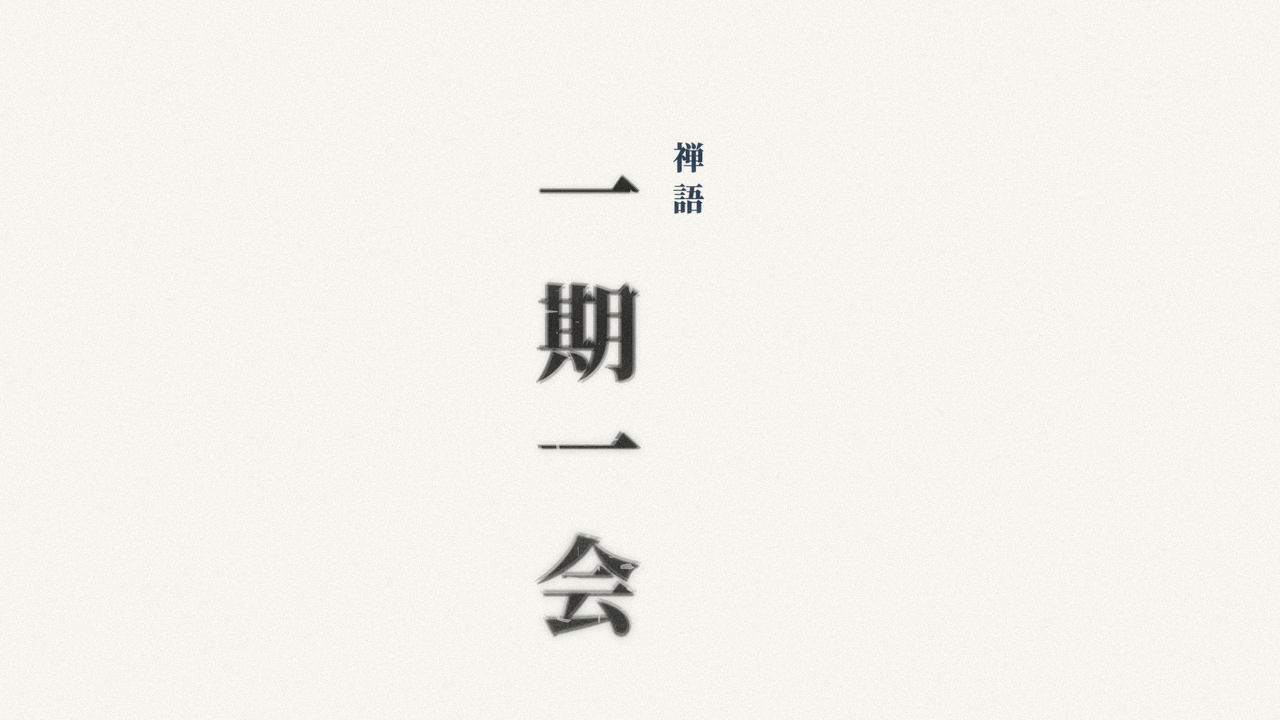
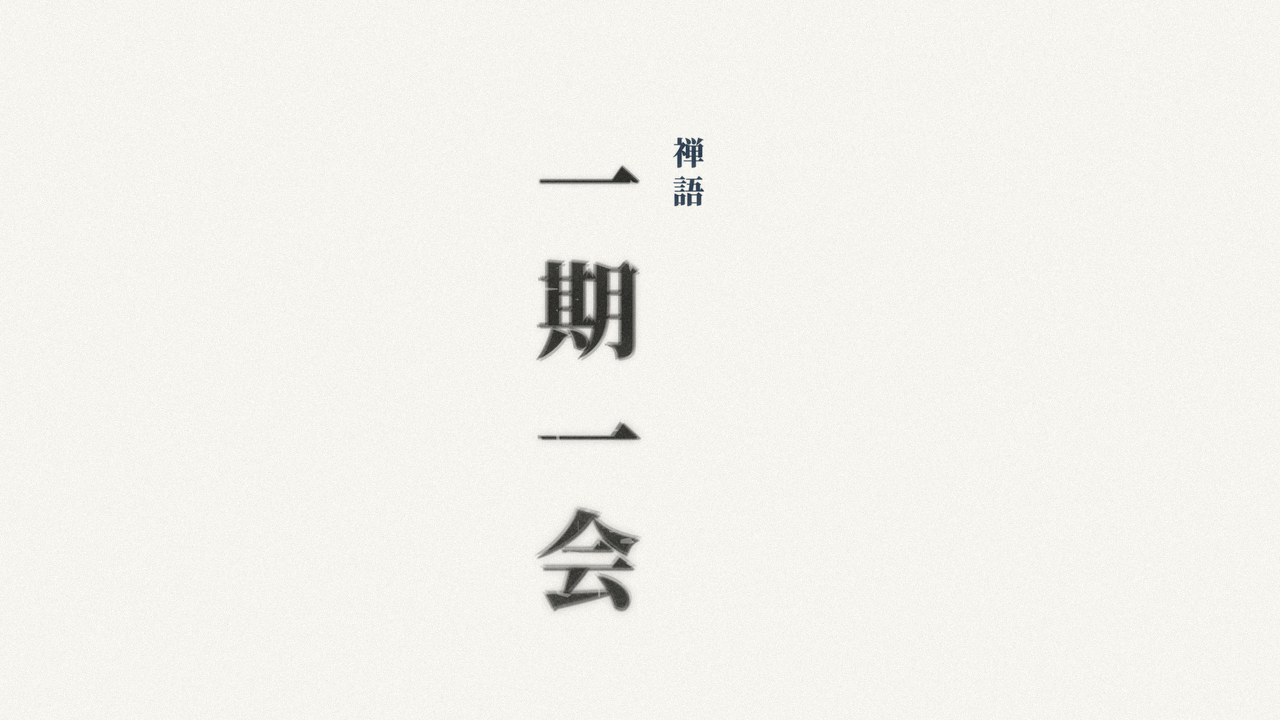
カバー生成: 縦書きの字間ずれを修正(インク重心ベースの位置合わせ)
オーナー指摘: fusaku.png で「一日不作一日不食」の2つ目の「一」の
前後で字間が不揃いになり、列が途中で改行したように見えていた。

原因: paste_vertical_column が各字のcanvas位置(幾何学的な等間隔)だけで
縦位置を決めていたため、「一」のような画数の少ない字はインクの塊が
canvas内で他の字と同じようには分布せず、掠れ効果(乾筆・大粒の抜け)や
太細のグラデーションと組み合わさることで、字間が視覚的に不揃いになる
ことがあった。

修正: jittered_glyph が各字のインクの縦方向の重心(行)を計算して返すように
し、paste_vertical_column はcanvas位置ではなくこの重心を基準に等間隔で
配置するよう変更。加えて、掠れ効果が重なって淡い字がほぼ消えないよう
下限(元の濃さの45%)を設定。

全禅語シリーズ・仏教語シリーズのカバーを再生成し、他の記事で見た目の
劣化がないことを確認済み(byojoshin/ichigoichie/ichigu 等で目視確認)。

diff --git a/tools/build_covers.py b/tools/build_covers.py
@@ -74,6 +74,7 @@ def jittered_glyph(ch, size, seed, wear=0.0):
 
     # --- かすれ(dry-brush): ノイズで一部を欠けさせる。wearが高いほど激しく ---
     from scipy.ndimage import gaussian_filter as _gf
+    pre_erosion = tapered  # 「一」等、画数の少ない字が複数の掠れ効果の重なりでほぼ消えるのを防ぐ下限に使う
     rng_np = np.random.RandomState(seed)
     speckle = rng_np.rand(canvas, canvas)
     hole_prob = 0.05 + 0.14 * wear
@@ -90,6 +91,10 @@ def jittered_glyph(ch, size, seed, wear=0.0):
     coarse_gate = np.where(coarse_mask < 0.10 + 0.10 * wear, 0.35, 1.0)
     tapered = tapered * coarse_gate
 
+    # 掠れ効果の下限: 「一」のような画数の少ない字が、乾筆+大粒掠れの重なりでほぼ消滅しないよう
+    # 元の濃さの一定割合は必ず残す(文字が縦書きの列の途中で消えて改行したように見える不具合を防ぐ)
+    tapered = np.maximum(tapered, pre_erosion * 0.45)
+
     ink_alpha = np.clip(tapered, 0, 1)
 
     # --- にじみ(ink bleed): ぼかした低アルファ層を下敷きにする ---
@@ -104,17 +109,34 @@ def jittered_glyph(ch, size, seed, wear=0.0):
     rgba[..., 2] = INK_COLOR[2]
     rgba[..., 3] = (final_alpha * 255).astype(np.uint8)
 
-    return Image.fromarray(rgba, mode="RGBA")
+    # インクの縦方向の重心(行)。「一」等ごく少画数の字は本来のemの中心と
+    # インクの塊の中心がずれやすく、canvas位置だけを均等割りすると縦書きの列で
+    # 字間が不揃いに見える(まるで途中で改行したような空白ができる)。
+    # paste_vertical_column側で、この重心を基準に位置合わせする。
+    row_mass = final_alpha.sum(axis=1)
+    total_mass = row_mass.sum()
+    if total_mass > 1e-6:
+        centroid_row = float((row_mass * np.arange(canvas)).sum() / total_mass)
+    else:
+        centroid_row = canvas / 2.0
+
+    img = Image.fromarray(rgba, mode="RGBA")
+    img.ink_centroid_row = centroid_row
+    return img
 
 
 def paste_vertical_column(canvas_img, chars, center_x, top_y, char_size, gap_ratio, color, seed_base, wear_curve=False):
-    """縦書きで文字を並べて貼り付ける。wear_curve=Trueなら下に行くほど掠れを強める"""
-    y = top_y
+    """縦書きで文字を並べて貼り付ける。wear_curve=Trueなら下に行くほど掠れを強める。
+    位置合わせは各字のcanvas位置ではなく、実際のインクの重心を基準に行う。
+    「一」のような画数の少ない字はインクの塊がcanvasの幾何中心からずれやすく、
+    canvas位置だけを均等割りすると列の途中で字間が不揃いに見えるため。"""
     step = char_size * (1 + gap_ratio)
     n = len(chars)
+    target_centroid_y = top_y + step / 2  # 1字目の理想的なインク重心位置
     for i, ch in enumerate(chars):
         wear = (i / max(1, n - 1)) * 0.85 if wear_curve else 0.0
         glyph = jittered_glyph(ch, int(char_size), seed_base + i, wear=wear)
+        centroid_row = glyph.ink_centroid_row
         if color != INK_COLOR:
             arr = np.array(glyph)
             arr[..., 0] = color[0]
@@ -123,10 +145,10 @@ def paste_vertical_column(canvas_img, chars, center_x, top_y, char_size, gap_rat
             glyph = Image.fromarray(arr, mode="RGBA")
         gw, gh = glyph.size
         px = int(center_x - gw / 2)
-        py = int(y)
+        py = int(round(target_centroid_y - centroid_row))
         canvas_img.alpha_composite(glyph, (px, py))
-        y += step
-    return y
+        target_centroid_y += step
+    return target_centroid_y
 
 
 def add_paper_grain(img, seed=1):
